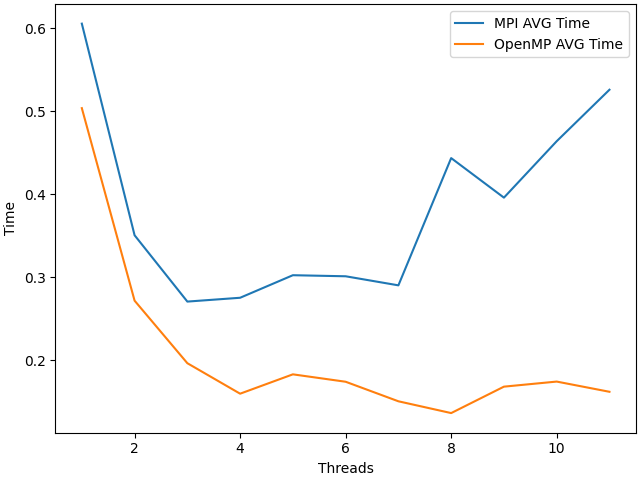
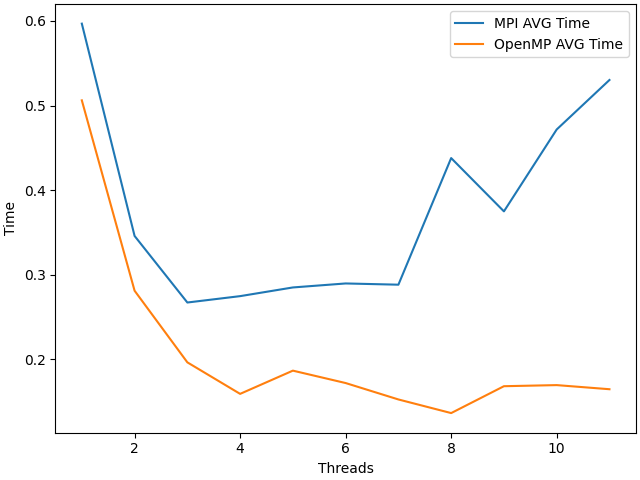
hui

diff --git a/lab6/parallel_core.py b/lab6/parallel_core.py
@@ -4,7 +4,7 @@ from logger import logger
 import matplotlib.pyplot as plt
 from abc import ABC
 
-AVG_RUNS = 5
+AVG_RUNS = 15
 MAX_SYSTEM_THREADS = 8
 MAX_TEST_THREAD = 12
 
